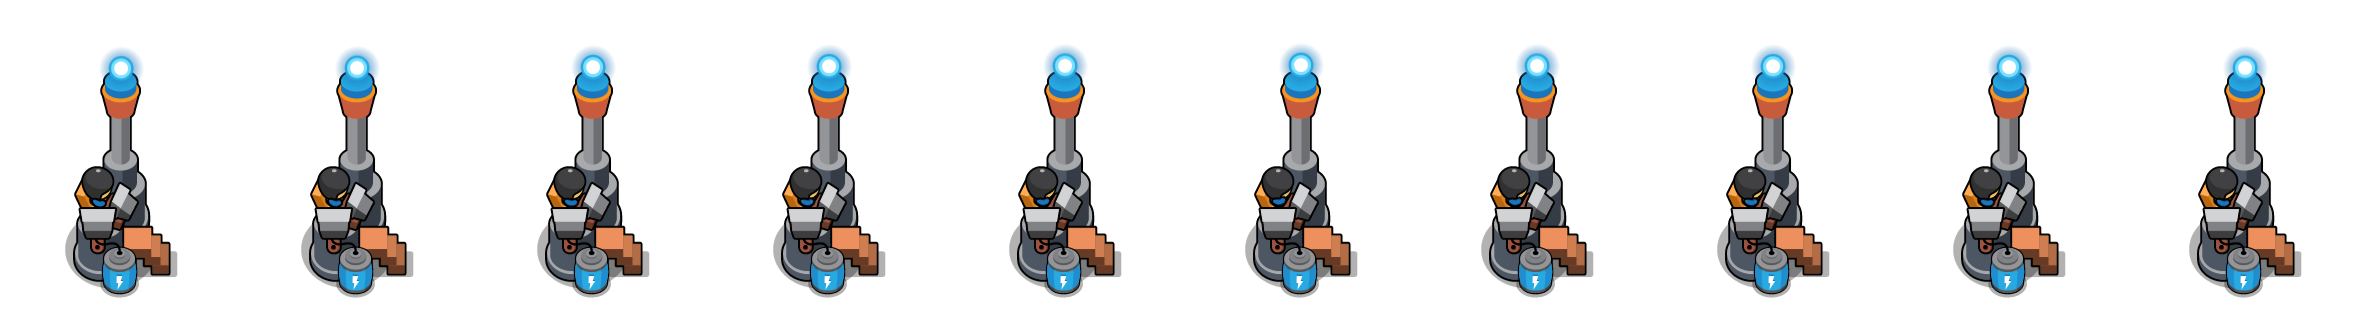
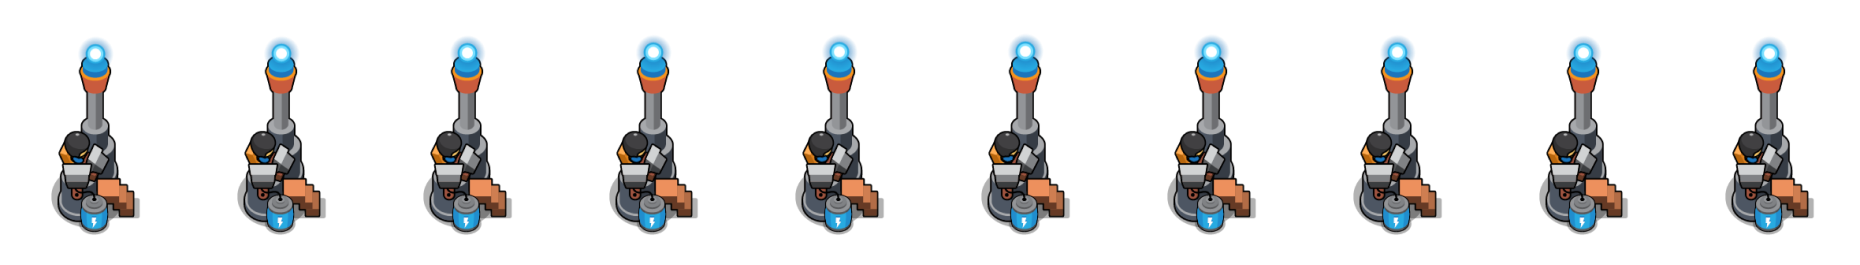
fix(teslaTower): change dim. Add boss

diff --git a/packages/client/src/game/classes/gameEntities/Enemies/BossHelmetZombie/index.ts b/packages/client/src/game/classes/gameEntities/Enemies/BossHelmetZombie/index.ts
@@ -1,0 +1,45 @@
+import Enemy from "@/game/classes/gameEntities/Enemies/Enemy";
+
+import rightImg from "@/assets/img/enemies/bossHelmetZombie/right.png";
+import leftImg from "@/assets/img/enemies/bossHelmetZombie/left.png";
+import frontImg from "@/assets/img/enemies/bossHelmetZombie/front.png";
+import backImg from "@/assets/img/enemies/bossHelmetZombie/back.png";
+import { IFrames, IContext, IEnemyParams, IEnemyImg } from "@/game/interfaces";
+
+class BossHelmetZombie extends Enemy {
+  constructor({ position, canvas, ctx }: IContext) {
+    const enemyParams: IEnemyParams = {
+      width: 220,
+      height: 223,
+      waypointIndex: 0,
+      radius: 40,
+      health: 3000,
+      speed: 1.5,
+      reward: 120,
+    };
+
+    const frames: IFrames = {
+      max: 20, // total number of animation frames
+      current: 0, // starting at the first frame
+      elapsed: 0, // no elapsed frames initially
+      hold: 3, // number of frames to skip before the next animation frame
+    };
+    const imageSrc: IEnemyImg = {
+      right: rightImg,
+      left: leftImg,
+      back: backImg,
+      front: frontImg,
+    };
+
+    super({
+      position,
+      canvas,
+      ctx,
+      frames,
+      imageSrc,
+      enemyParams,
+    });
+  }
+}
+
+export default BossHelmetZombie;

diff --git a/packages/client/src/game/mocks/towersData/teslaTower.ts b/packages/client/src/game/mocks/towersData/teslaTower.ts
@@ -7,8 +7,8 @@ import { ITowerParams } from "@/game/interfaces";
 const teslaTower: ITowerParams = {
   title: "Tesla tower",
   preview: previewImg,
-  width: 236,
-  height: 335,
+  width: 186,
+  height: 265,
   radius: 250,
   damage: 25,
   speed: 3.5,
@@ -17,8 +17,8 @@ const teslaTower: ITowerParams = {
   imgs: imgs,
 
   offset: {
-    x: -80,
-    y: -220,
+    x: -60,
+    y: -150,
   },
 
   frames: {
@@ -30,8 +30,8 @@ const teslaTower: ITowerParams = {
 
   projectile: {
     offset: {
-      x: 105,
-      y: 310,
+      x: 85,
+      y: 250,
     },
     imageSrc: lighterImg,
     needRotation: false,

diff --git a/packages/client/src/game/classes/gameEntities/Enemies/index.ts b/packages/client/src/game/classes/gameEntities/Enemies/index.ts
@@ -2,10 +2,12 @@ import ShieldZombie from "@/game/classes/gameEntities/Enemies/ShieldZombie";
 import ConeZombie from "@/game/classes/gameEntities/Enemies/coneZombie";
 import SaucepanZombie from "@/game/classes/gameEntities/Enemies/SaucepanZombie";
 import HelmetZombie from "@/game/classes/gameEntities/Enemies/HelmetZombie";
+import BossHelmetZombie from "./BossHelmetZombie";
 
 export default {
   ShieldZombie,
   ConeZombie,
   SaucepanZombie,
   HelmetZombie,
+  BossHelmetZombie,
 };

diff --git a/packages/client/src/game/mocks/level/index.ts b/packages/client/src/game/mocks/level/index.ts
@@ -30,6 +30,7 @@ const level_1: ILevel = {
       ConeZombie: 8,
       HelmetZombie: 20,
       SaucepanZombie: 18,
+      BossHelmetZombie: 1,
     },
   ],
 };
